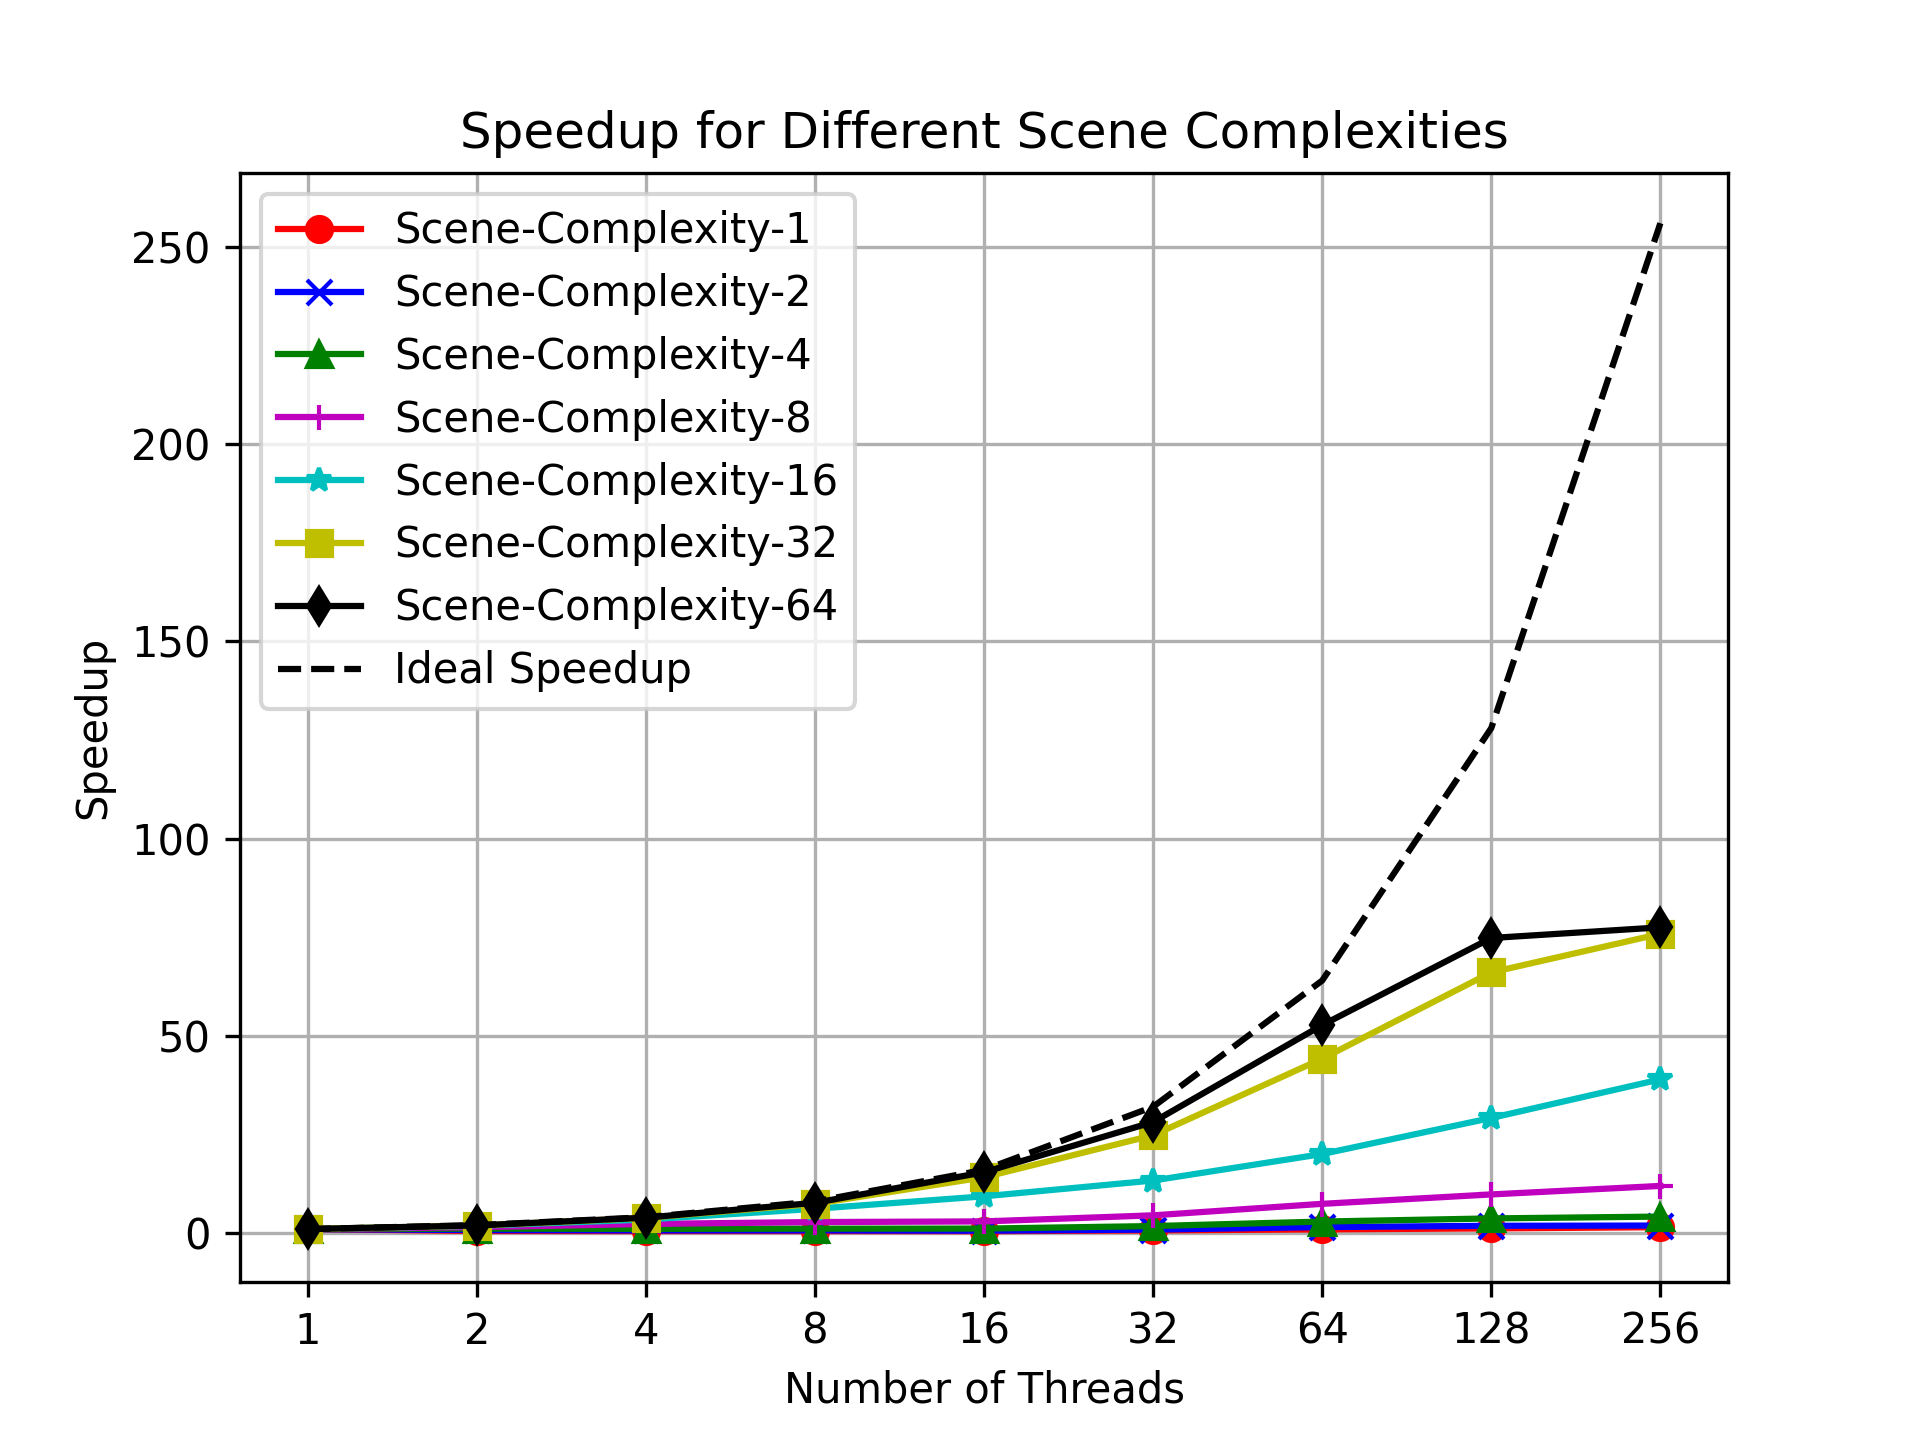
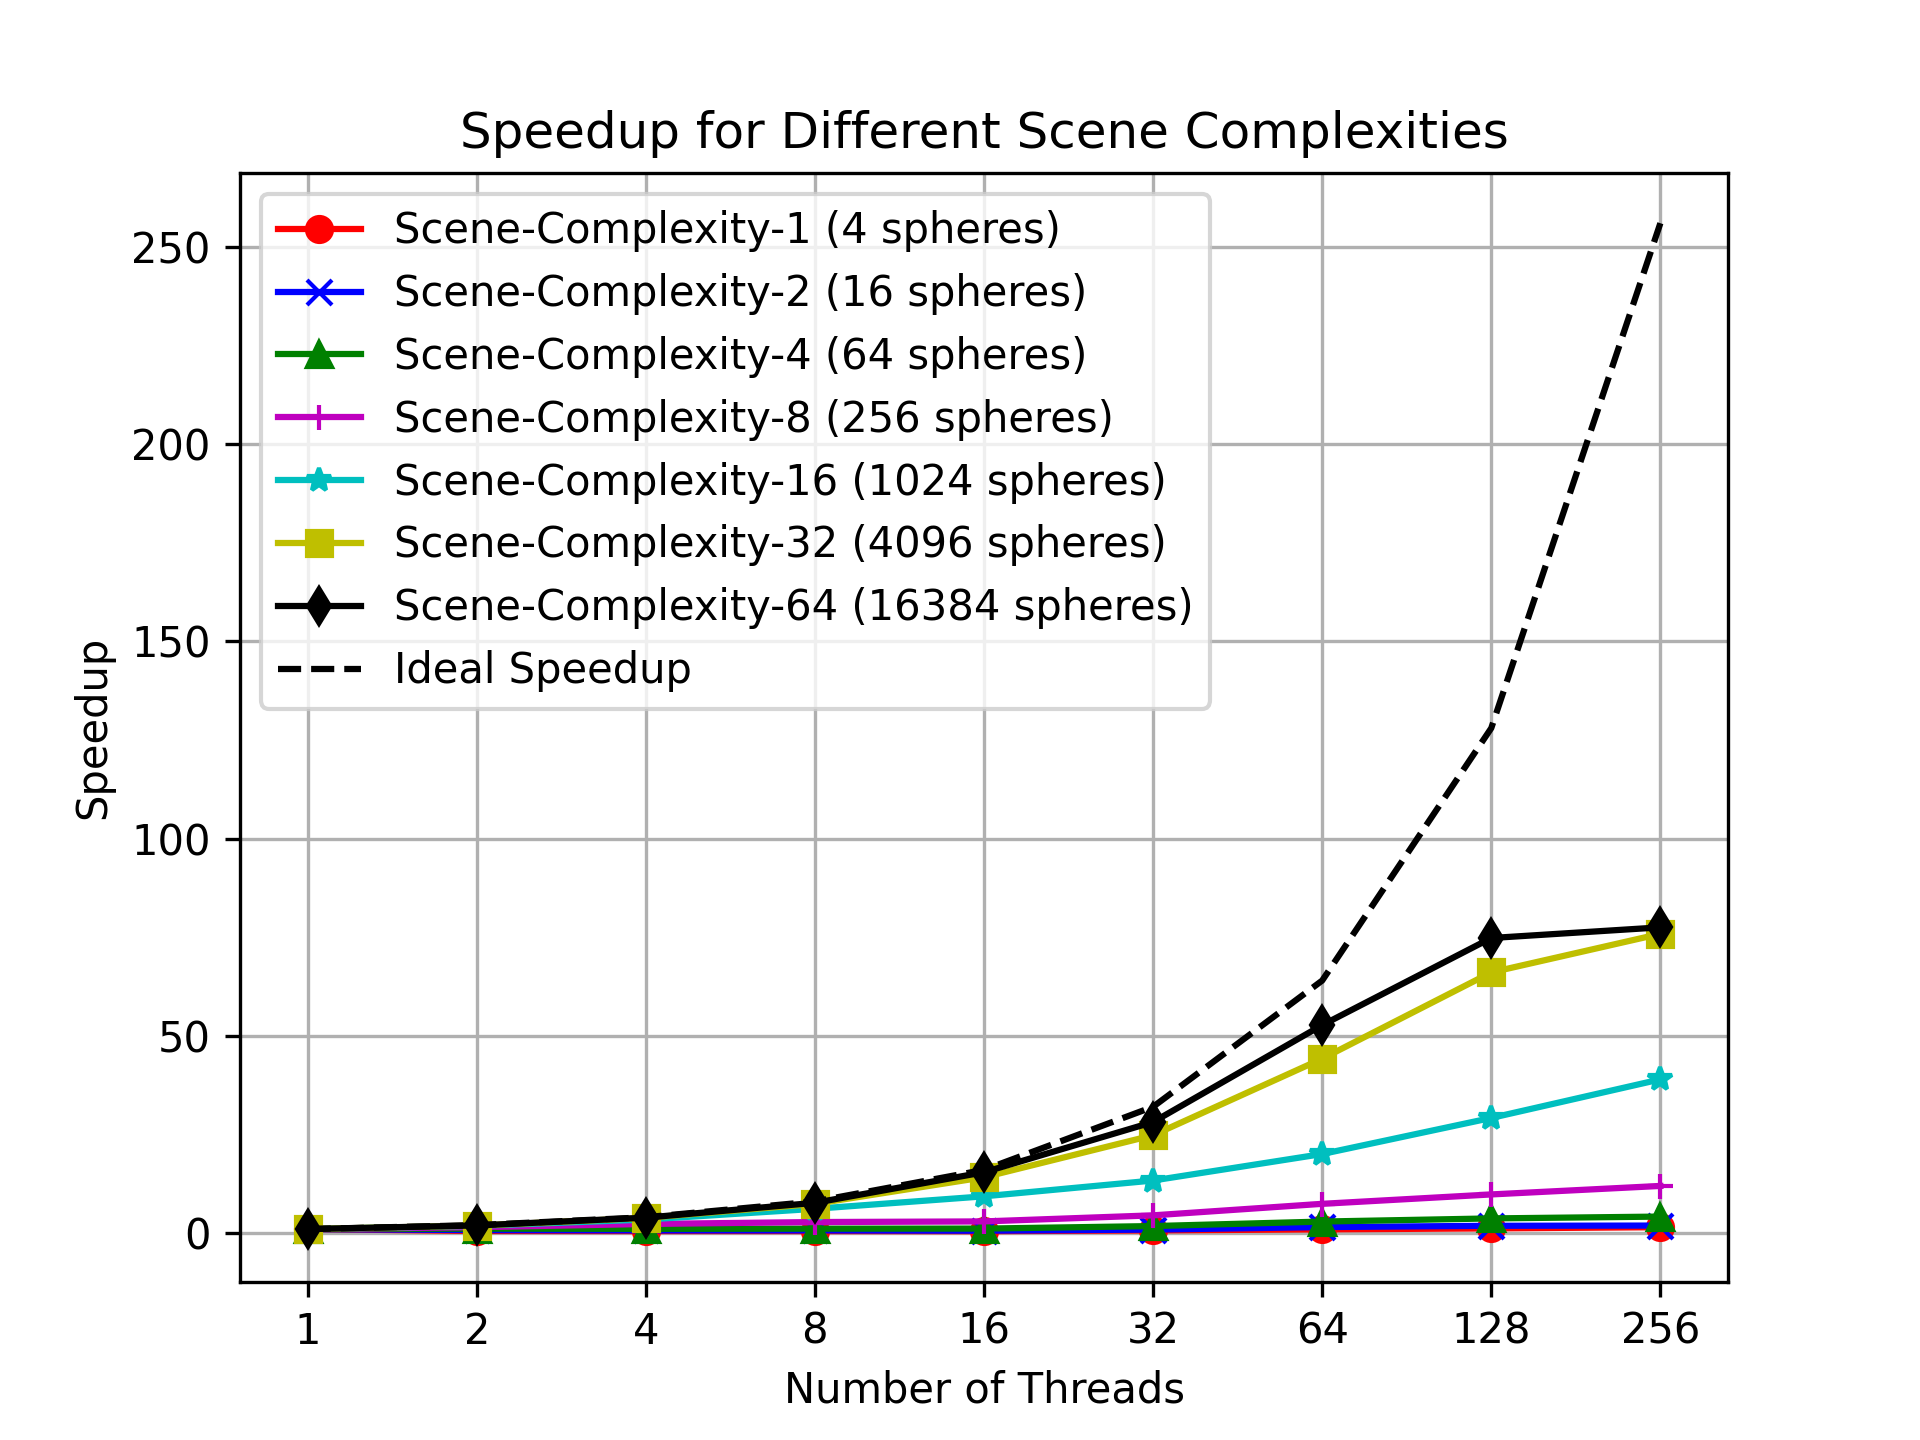
Rename

Changed region(s): [[0.4375, 0.125, 0.625, 0.5], [0.5938, 0.125, 0.625, 0.1875]]

diff --git a/scripts/scene-complexity-plot.py b/scripts/scene-complexity-plot.py
@@ -58,7 +58,10 @@ def plot_speedup_chart(df, complexities, title="Speedup Comparison"):
         all_threads.update(threads)
 
         plt.plot(
-            threads, speedups, PLOT_FORMATS[idx], label=f"Scene-Complexity-{complexity}"
+            threads,
+            speedups,
+            PLOT_FORMATS[idx],
+            label=f"Scene-Complexity-{complexity} ({4 * complexity * complexity} spheres)",
         )
 
     # Sort threads to create a clean ideal speedup line
@@ -83,7 +86,9 @@ def plot_speedup_chart(df, complexities, title="Speedup Comparison"):
 
 
 if __name__ == "__main__":
-    data_file = "parsed_data.csv"  # Update this to your actual parsed CSV file path
+    data_file = (
+        "data/scene-complexity.csv"  # Update this to your actual parsed CSV file path
+    )
     df = load_data(data_file)
 
     # Create chart with the three complexities and ideal speedup
